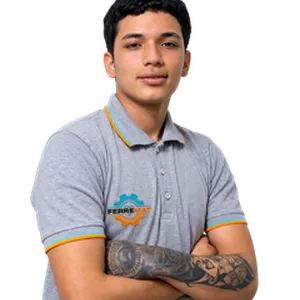
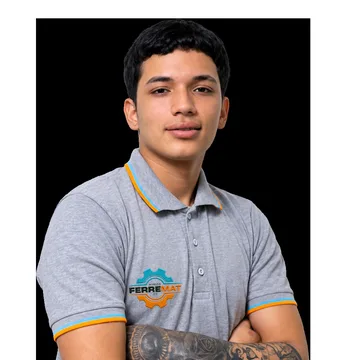
fix(frontend): fotos vendedores sin corte (crop top) + tarjetas mas grandes

diff --git a/frontend/assets/css/styles.css b/frontend/assets/css/styles.css
@@ -2615,13 +2615,15 @@
     .vendor-option {
       display: flex;
       align-items: center;
-      gap: 8px;
-      padding: 10px 12px;
-      font-size: 13px;
+      gap: 10px;
+      padding: 12px;
+      font-size: 14px;
+      line-height: 1.25;
       color: var(--text-body);
       background: var(--bg-warm);
       border-radius: var(--radius-sm);
       cursor: pointer;
+      min-width: 0;
     }
 
     .vendor-option input {
@@ -2629,11 +2631,17 @@
     }
 
     .vendor-option__foto {
-      width: 48px;
-      height: 48px;
+      width: 56px;
+      height: 56px;
       border-radius: 50%;
       object-fit: cover;
+      object-position: center top;
       flex-shrink: 0;
+    }
+
+    .vendor-option span:last-child {
+      min-width: 0;
+      overflow-wrap: break-word;
     }
 
     .vendor-option__foto--placeholder {
